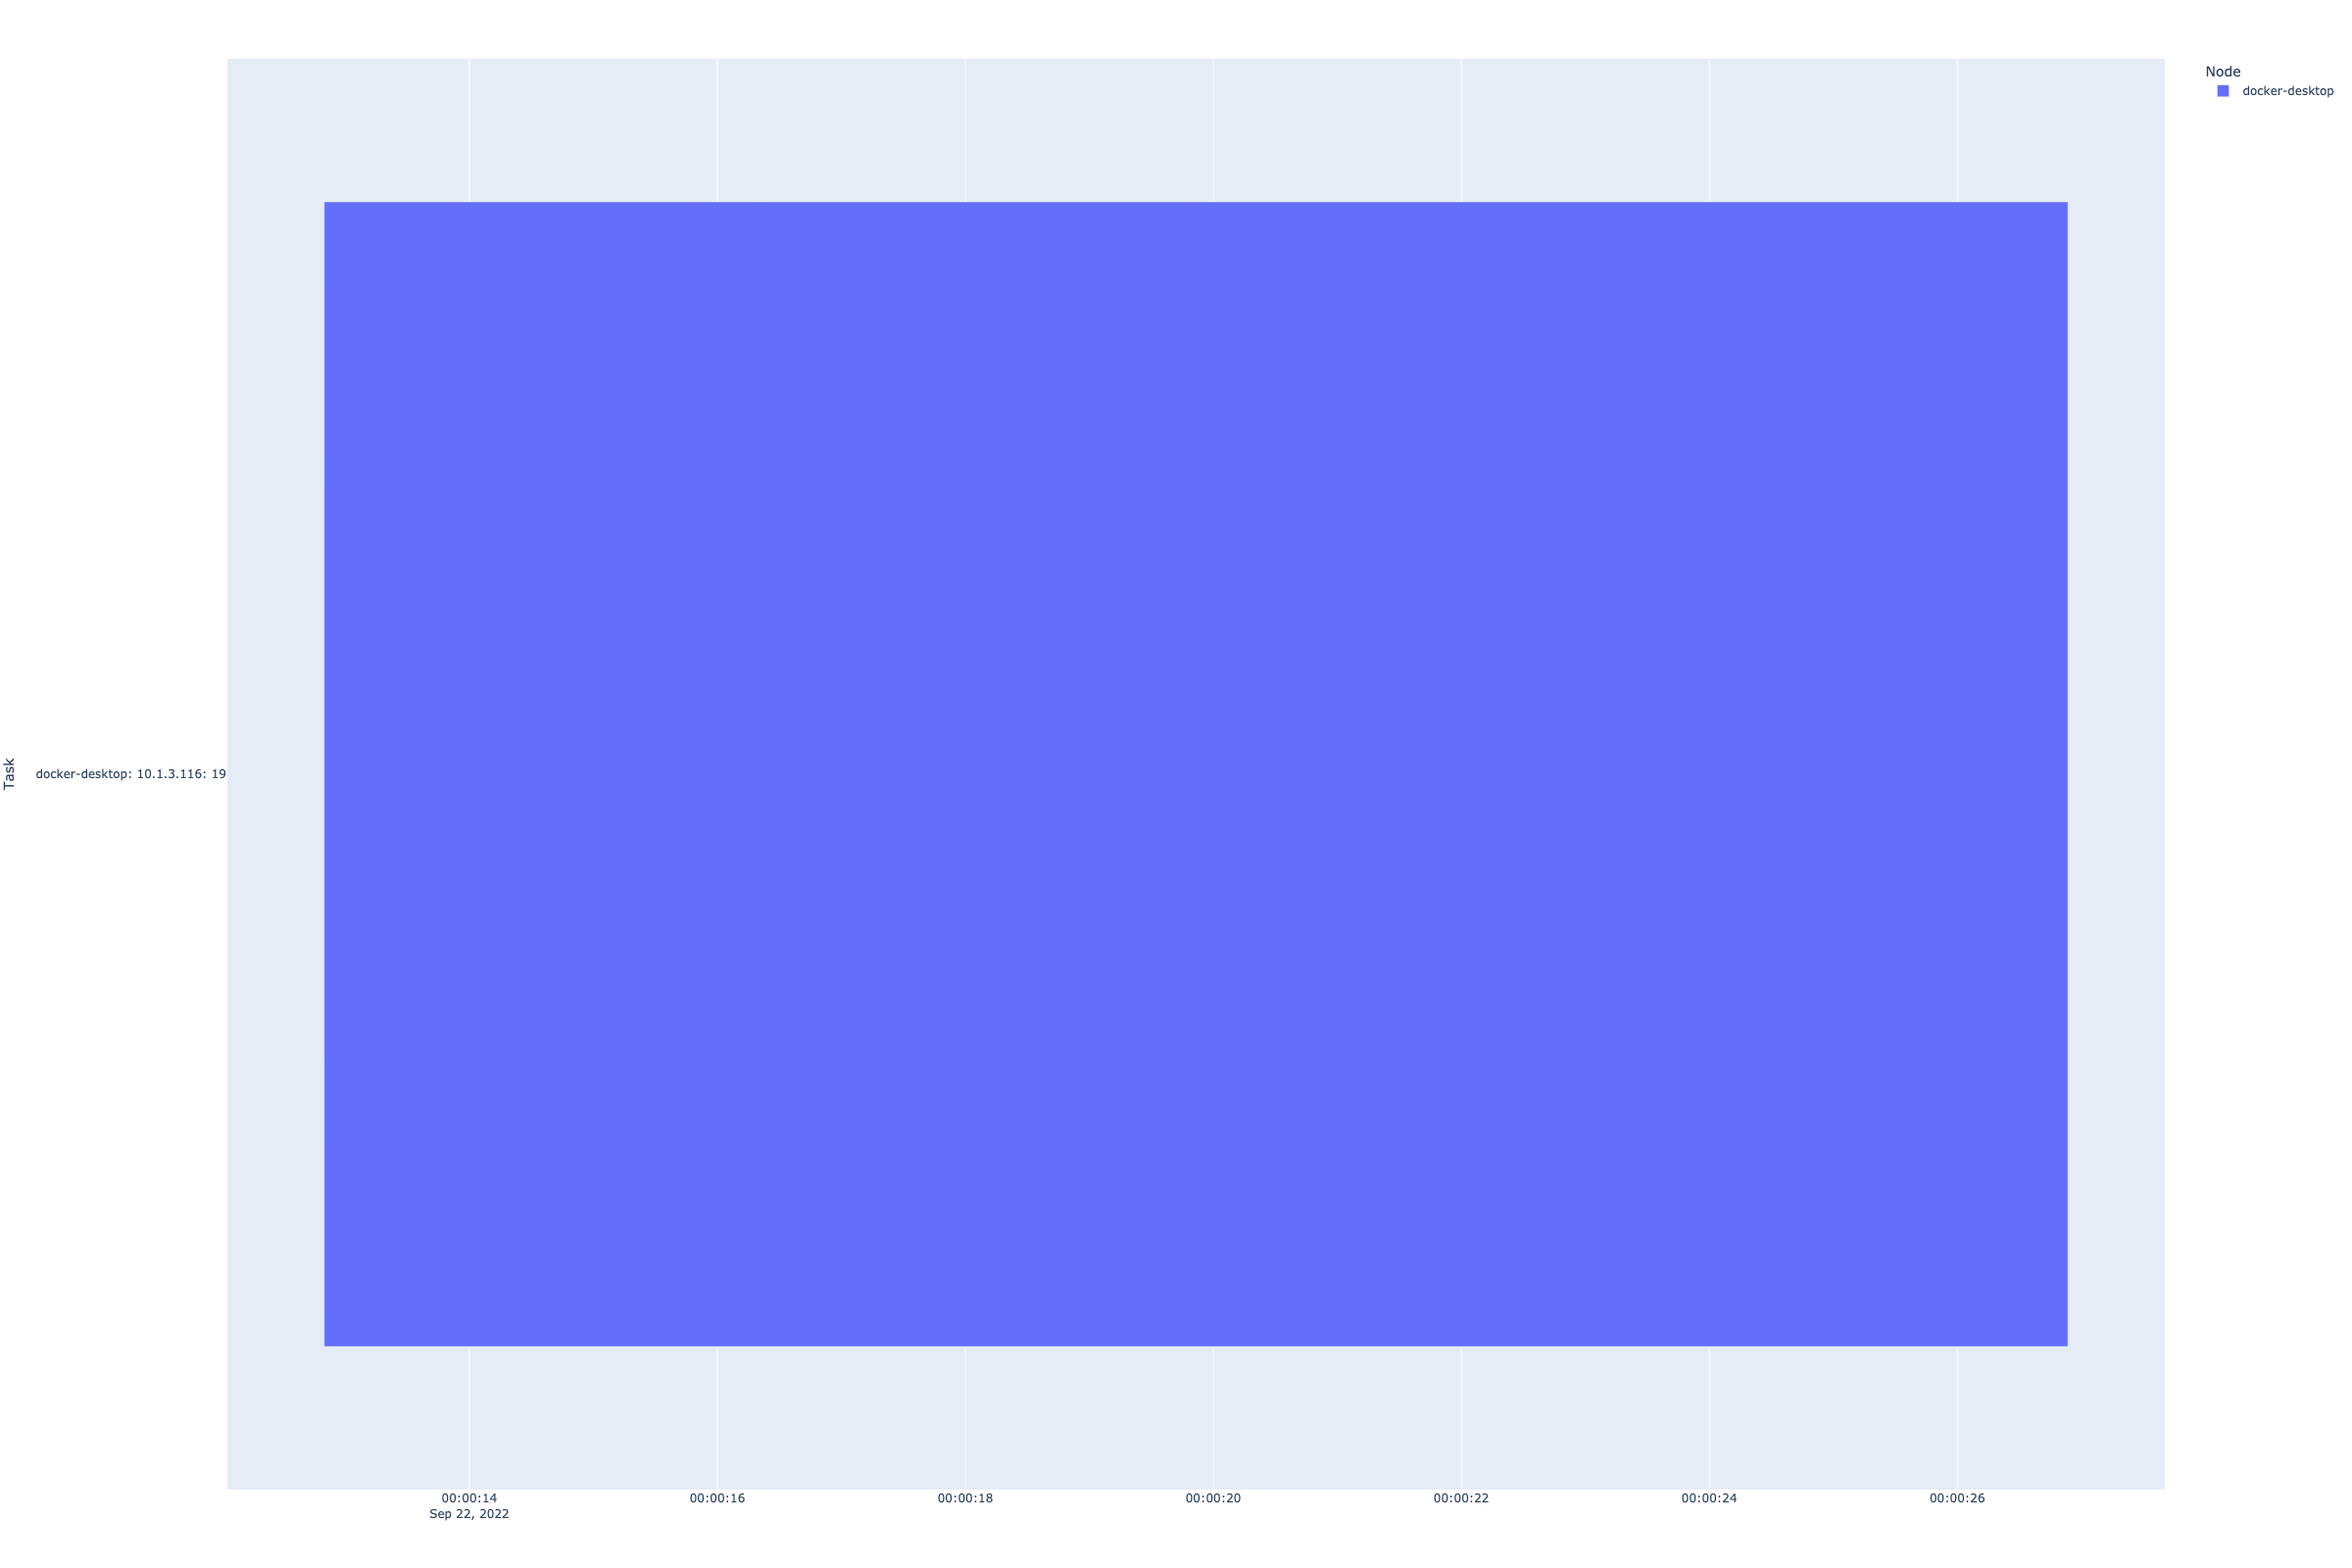
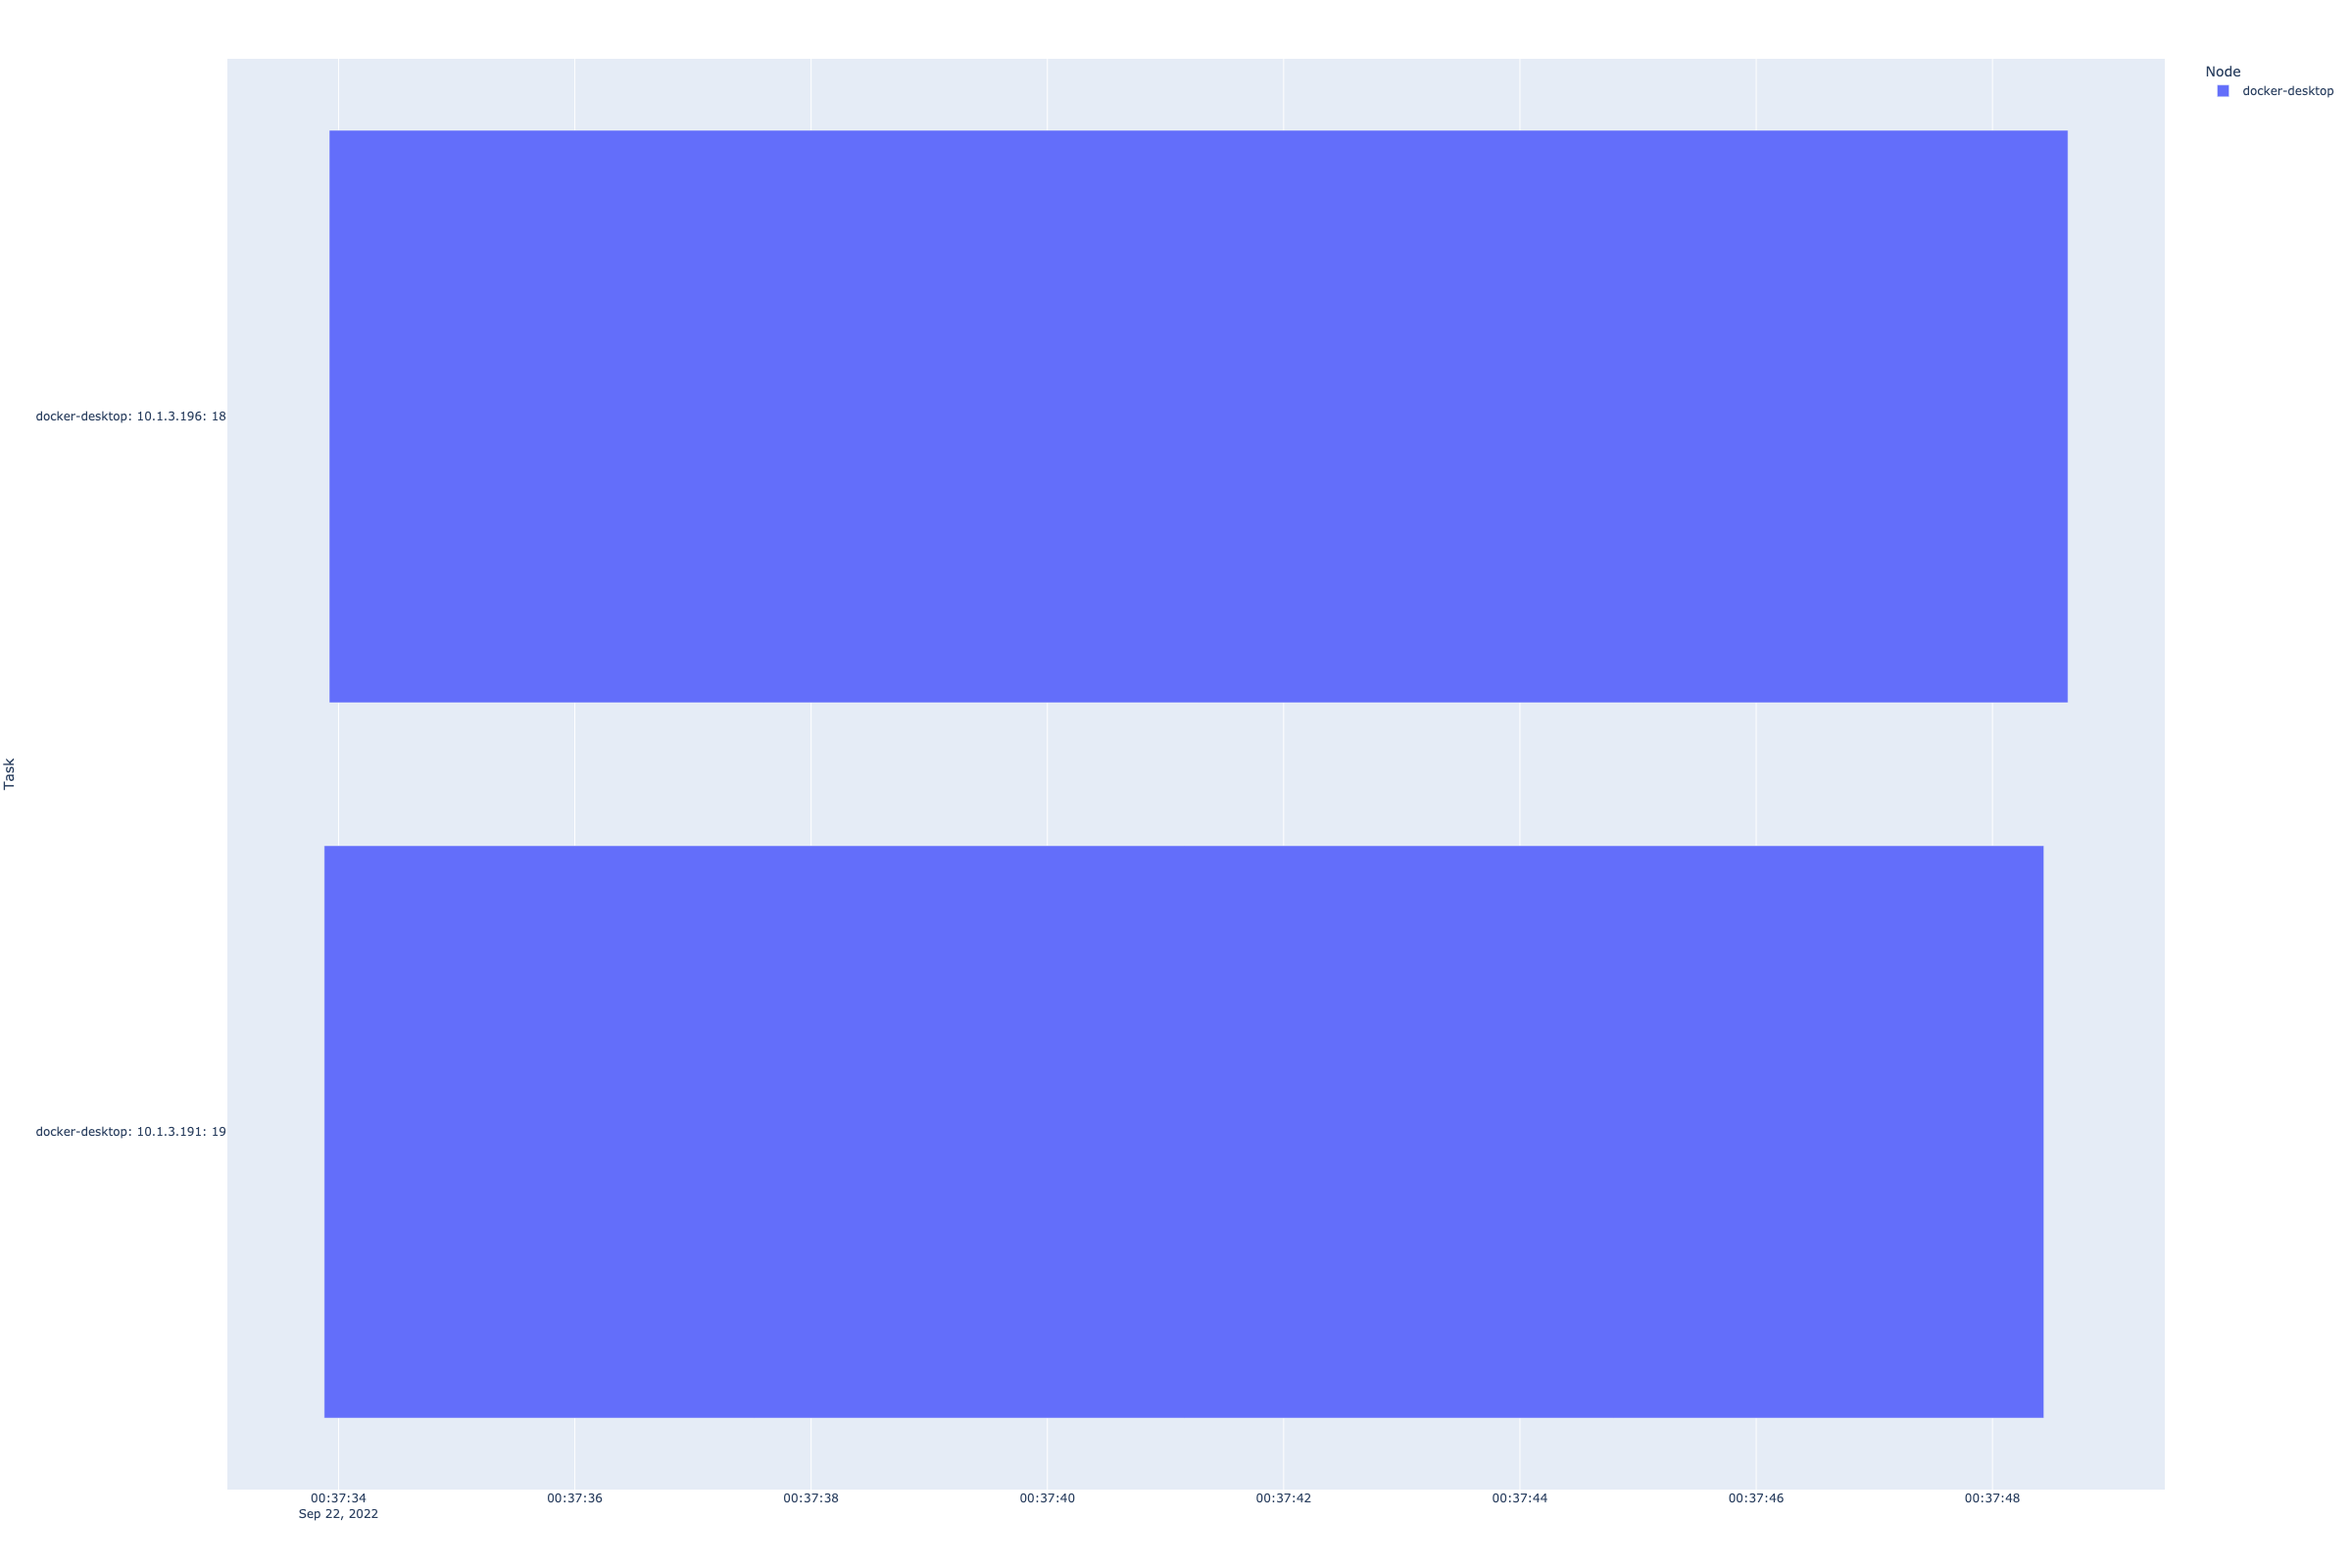
fix namespace in the same timestamp

diff --git a/gismoclouddeploy/services/modules/utils/GismoCloudDeploy.py b/gismoclouddeploy/services/modules/utils/GismoCloudDeploy.py
@@ -333,20 +333,22 @@ class GismoCloudDeploy(object):
         
 
         self._total_number_files = len(n_files)
+        
         self._num_namesapces = math.ceil( self._total_num_nodes / self._num_worker_pods_per_namespace )
         num_files_per_namespace =  math.ceil(self._total_number_files/self._num_namesapces)
-
+        # print(f"self._total_num_nodes :{self._total_num_nodes}, self._num_worker_pods_per_namespace :{self._num_worker_pods_per_namespace}, self._num_namesapces: {self._num_namesapces}")
         # define how many worker pods replcas in each namespaces. 
 
         self._worker_desired_replicas_per_namespaces =  self._num_worker_pods_per_namespace - 1
         if self._worker_desired_replicas_per_namespaces < 1 :
             self._worker_desired_replicas_per_namespaces = 1
-        
+        delay = 2
         for i in range(self._num_namesapces ):
             curr_time = int(time.time())
         
             namespace = f"{curr_time}-"+ self._user_id  
             self._k8s_namespace_set.add(namespace)
+            time.sleep(delay)
 
 
         # assign process file into each namespace.
@@ -580,60 +582,14 @@ class GismoCloudDeploy(object):
 
     def handle_verify_k8s_services(self, event):
         logging.info("handle_verify_k8s_services")
+    
         
-        # threads = list()
-        # try:
-        #     for service, value in self._services_con string indices must be integersfig_list.items():
-        #         desired_replicas = value["desired_replicas"]
-        #         logging.info(f"{service}: desired_replicas: {desired_replicas}")
-        #         wait_pod_ready(
-        #             num_container=desired_replicas,
-        #             container_prefix=service,
-        #             counter=self._interval_of_wait_pod_ready,
-        #             delay= 1
-        #         )
-        #         # x = threading.Thread(
-        #         #     target=wait_pod_ready,
-        #         #     args=(
-        #         #         desired_replicas,
-        #         #         service,
-        #         #         self._interval_of_wait_pod_ready,
-        #         #         1,
-        #         #     ),
-        #         # )
-        #         # x.name = service
-        #         # threads.append(x)
-        #         # x.start()
-        # except Exception as e:
-        #     raise Exception(f"Verify k8 services failed")
-
-        # logging.info("get server's pod name in each namespace")
-
-        # ready_server_list = []
-        # wait_time = 25
-        # delay = 5
-        # while wait_time > 0:
-        #     logging.info(f"K8s reboot Wait {wait_time} sec")
-        #     time.sleep(delay)
-        #     wait_time -= delay
-
-        # for namespace in self._k8s_namespace_set:
-        #     server_name = get_k8s_pod_name_from_namespace(pod_name_prefix="server", namespace= namespace)
-        #     if server_name is None:
-        #         continue
-        #     _server_info = {'name': server_name, 'namespace':namespace}
-        #     ready_server_list.append(_server_info)
-
-        # if len(ready_server_list) != len(self._k8s_namespace_set):
-        #     raise Exception(f"one of the namespace has no server ready")
-        # self._ready_server_list = ready_server_list
-        # logging.info(f"ready server list {ready_server_list}")
-        # return
-        ready_server_list = []
         wait_time = 120
         delay = 5
-        
+        ready_server_list =[]
+        logging.info(f"self._k8s_namespace_set :{self._k8s_namespace_set}")
         while wait_time > 0 and len(ready_server_list) < len(self._k8s_namespace_set):
+            ready_server_list = []
             for namespace in self._k8s_namespace_set:
                 server_name = get_k8s_pod_name_from_namespace(pod_name_prefix="server", namespace= namespace)
                 if server_name is None:
@@ -966,8 +922,8 @@ def send_command_to_server(
             pod_name=server_name,
             namespace = namespace,
         )
-        logging.info(f"invoke k8s resp:{resp}")
-        print(f"namespace:{namespace} server_name:{server_name} resp: {resp} ")
+        # logging.info(f"invoke k8s resp:{resp}")
+        # print(f"namespace:{namespace} server_name:{server_name} resp: {resp} ")
     return None
 
 def create_config_parameters_to_app(

diff --git a/gismoclouddeploy/services/main.py b/gismoclouddeploy/services/main.py
@@ -209,8 +209,7 @@ def menus():
         relative_project_folder = menus.get_relative_project_folder()
         ssh_run_file_command = menus.get_run_files_command()
         is_cleanup_after_completion  = menus.get_cleanup_after_completion()
-        # print(f"is_confirm :{is_confirm}, menus_action {menus_action} project_in_tags: {project_in_tags}\n local_pem_path: {local_pem_path}\n ec2_export_full_path_name:{ec2_export_full_path_name}, \n eks_export_full_path_name: {eks_export_full_path_name},\n relative_project_folder:{relative_project_folder} \n ssh_command:{ssh_run_file_command}")
-        # print("----------------")
+
         
         handle_aws = HandleAWS(
             securitygroup_name = 'SSH-ONLY',

diff --git a/gismoclouddeploy/services/modules/utils/run_process_files.py b/gismoclouddeploy/services/modules/utils/run_process_files.py
@@ -94,9 +94,10 @@ def run_process_files(
             gcd.trigger_ready()
             logging.info(f" ===== State: {gcd.state} ; repeat index {repeat_index} =======")
             # deploy state, deploy k8s , scale eks nodes
-
+            
             gcd.trigger_deploy()
             logging.info(f" ===== State: {gcd.state} ; repeat index {repeat_index} =======")
+
             # processing state, send coammd to server, long pulling sqs
             gcd.trigger_processing()
             logging.info(f" ===== State: {gcd.state} ; repeat index {repeat_index} =======")
